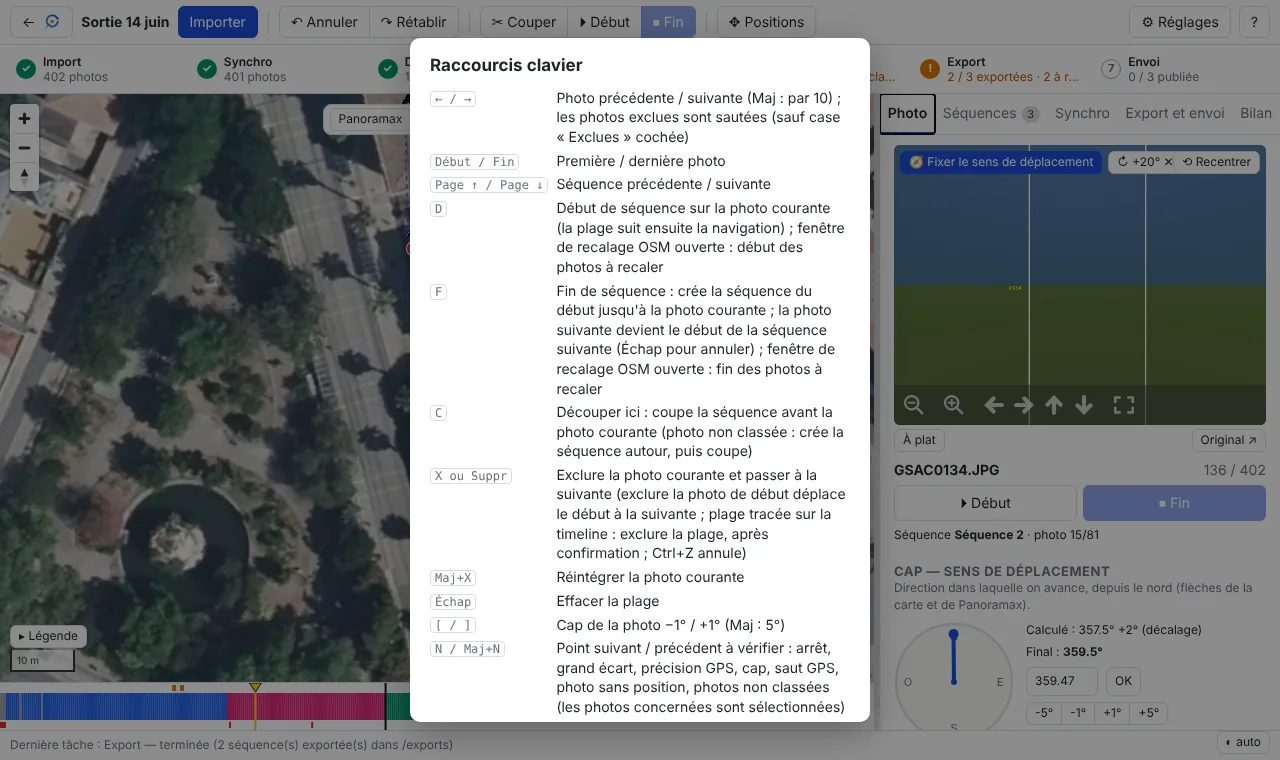
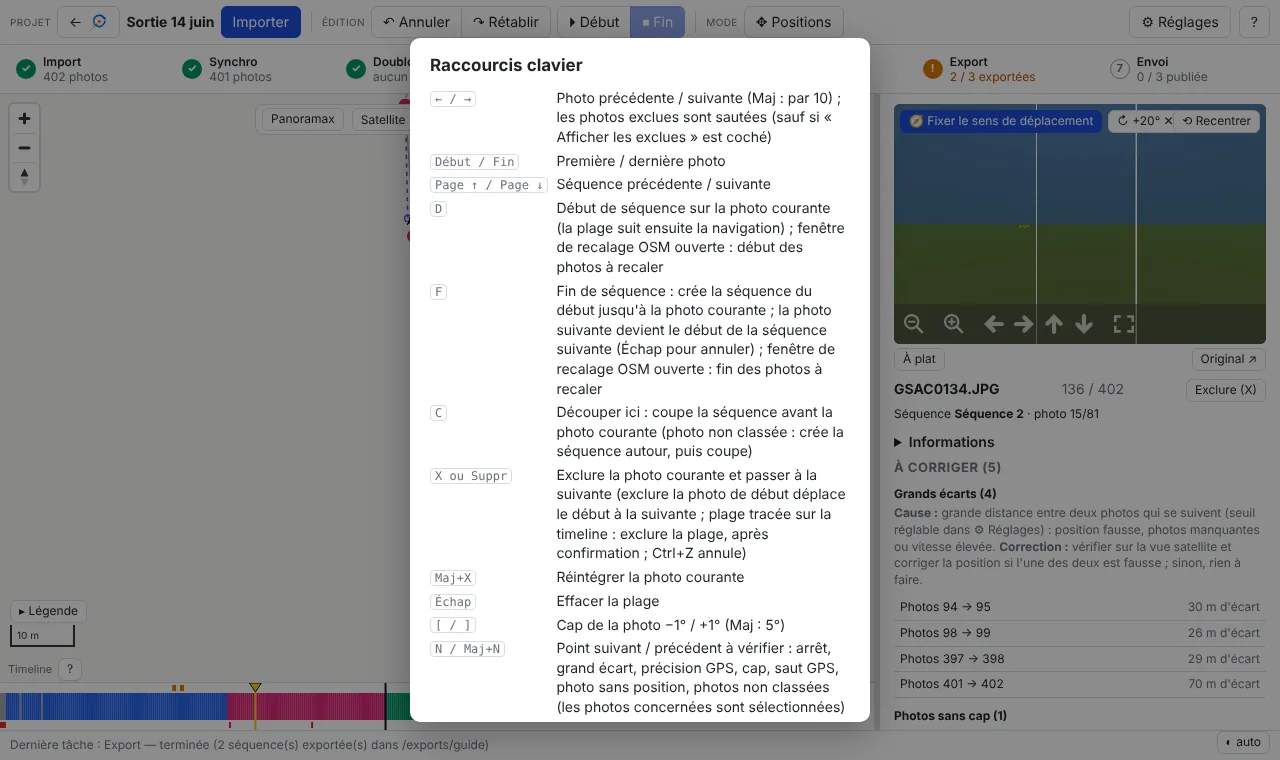
Captures du guide régénérées (FR/EN) (#66)
* Captures du guide régénérées (FR et EN) : onglets-étapes, Positions et sens fusionné ; captures.js adapté

Closes #51

Claude-Session: https://claude.ai/code/session_01UxooiTB1SJsNtET5WquF4Y

* Libellés : bouton « L'avant est ici » et légende « sens de déplacement » ; captures concernées régénérées

Claude-Session: https://claude.ai/code/session_01UxooiTB1SJsNtET5WquF4Y

---------

diff --git a/tools/captures.js b/tools/captures.js
@@ -5,8 +5,8 @@ const OUT = process.argv[2], BASE = process.argv[3] || 'http://127.0.0.1:8767/';
 const LANG = process.argv[4] === 'en' ? 'en' : 'fr';
 // Labels the script clicks on, per language (exact texts of frontend/src/i18n)
 const L = LANG === 'en'
-  ? { ride: 'Ride 14 June', seq: 'Sequences', summary: 'Summary', export: 'Export and send', sync: 'Sync', photo: 'Photo', basemap: 'Background map', heading: /heading/i, info: /information/i }
-  : { ride: 'Sortie 14 juin', seq: 'Séquences', summary: 'Bilan', export: 'Export', sync: 'Synchro', photo: 'Photo', basemap: 'Fond de carte', heading: /cap/i, info: /informations/i };
+  ? { ride: 'Ride 14 June', seq: 'Sequences', summary: 'Import', export: 'Export', sync: 'Sync', photo: 'Positions and direction', basemap: 'Background map' }
+  : { ride: 'Sortie 14 juin', seq: 'Séquences', summary: 'Import', export: 'Export', sync: 'Synchro', photo: 'Positions et sens', basemap: 'Fond de carte' };
 (async () => {
   const b = await chromium.launch(); const errors = [];
   const ctx = await b.newContext({ viewport: { width: 1280, height: 760 }, colorScheme: 'light', locale: LANG === 'en' ? 'en-GB' : 'fr-FR' });
@@ -17,11 +17,11 @@ const L = LANG === 'en'
   const shot = async (name, opts = {}) => { await p.screenshot({ path: `${OUT}/${name}.png`, ...opts }); console.log('ok', name); };
   const go = async (n) => { await p.keyboard.press('Home'); for (let i = 0; i < Math.floor(n / 10); i++) await p.keyboard.press('Shift+ArrowRight'); for (let i = 0; i < n % 10; i++) await p.keyboard.press('ArrowRight'); await wait(); };
 
-  await p.addInitScript((lang) => { try { localStorage.setItem('pss-basemap', 'osm'); localStorage.setItem('pss-follow', '1'); localStorage.setItem('pss-lang', lang) } catch {} }, LANG);
+  await p.addInitScript((lang) => { try { localStorage.setItem('pss-basemap', 'osm'); localStorage.setItem('pss-follow', '1'); localStorage.setItem('pss-lang', lang); localStorage.setItem('pss-tips-seen', '1') } catch {} }, LANG);
   await p.goto(BASE); await p.waitForSelector('.project-name'); await wait();
   await shot('01-projets');
 
-  await p.click(`.project-name:has-text("${L.ride}")`); await p.waitForSelector('.tabs');
+  await p.click(`.project-name:has-text("${L.ride}")`); await p.waitForSelector('.steps');
   await go(40); await p.evaluate(() => window.__pssMap.zoomTo(16.3, { duration: 0 })); await tiles();
   await shot('02-ecran');
 
@@ -30,22 +30,22 @@ const L = LANG === 'en'
   await shot('03-debut-fin');
   await p.keyboard.press('Escape');
 
-  await p.click(`.tab:has-text("${L.seq}")`); await wait();
+  await p.click(`.step:has(.lab:text-is("${L.seq}"))`); await wait();
   await shot('04-sequences');
 
-  await p.click(`.tab:has-text("${L.summary}")`); await wait();
+  await p.click(`.step:has(.lab:text-is("${L.summary}"))`); await wait();
   await shot('09-bilan');
 
-  await p.click(`.tab:has-text("${L.export}")`); await wait();
+  await p.click(`.step:has(.lab:text-is("${L.export}"))`); await wait();
   await shot('08-export');
 
   // satellite IGN for sync and positions
   await p.selectOption(`select[aria-label="${L.basemap}"]`, 'ign-ortho'); await wait(1000);
-  await p.click(`.tab:has-text("${L.sync}")`); await wait(1500);
+  await p.click(`.step:has(.lab:text-is("${L.sync}"))`); await wait(1500);
   await go(150); await p.evaluate(() => window.__pssMap.zoomTo(18, { duration: 0 })); await tiles();
   await shot('05-synchro');
 
-  await p.click(`.tab:has-text("${L.photo}")`); await wait();
+  await p.click(`.step:has(.lab:text-is("${L.photo}"))`); await wait();
   await go(100); await p.keyboard.press('m'); await p.evaluate(() => window.__pssMap.zoomTo(18.5, { duration: 0 })); await tiles();
   const mk = await p.locator('.maplibregl-marker').last().boundingBox();
   if (mk) { const x = mk.x + mk.width / 2, y = mk.y + mk.height - 4; await p.mouse.move(x, y); await p.mouse.down(); await p.mouse.move(x + 40, y - 25, { steps: 8 }); await p.mouse.up(); await wait(1200); }
@@ -55,12 +55,7 @@ const L = LANG === 'en'
   // heading / orientation part of the photo panel
   await go(130); await wait(1500);
   await p.setViewportSize({ width: 1280, height: 1500 }); await wait(1200);
-  const box = await p.evaluate(([capRe, infoRe]) => {
-    const hs = [...document.querySelectorAll('aside.side h3')];
-    const cap = hs.find(h => new RegExp(capRe, 'i').test(h.textContent)), info = hs.find(h => new RegExp(infoRe, 'i').test(h.textContent));
-    const a = cap.getBoundingClientRect(), b = info.getBoundingClientRect(), side = document.querySelector('aside.side').getBoundingClientRect();
-    return { x: side.x, y: a.y - 12, width: side.width, height: b.y - a.y };
-  }, [L.heading.source, L.info.source]);
+  const box = await p.evaluate(() => { const r = document.querySelector('details[data-section="travel"]').getBoundingClientRect(); return { x: r.x, y: r.y - 6, width: r.width, height: r.height + 12 } });
   await p.screenshot({ path: `${OUT}/07-cap.png`, clip: box }); console.log('ok 07-cap');
   await p.setViewportSize({ width: 1280, height: 760 }); await wait();
 

diff --git a/frontend/src/i18n/en.ts b/frontend/src/i18n/en.ts
@@ -386,8 +386,8 @@ export const en: Record<Key, string> = {
   'photo.end': '⏹ End',
   'photo.endBig': ' — {n} photos',
   'photo.unreadable': 'Unreadable image',
-  'photo.fixRange': 'Direction of travel (range {a}→{b})',
-  'photo.fix': 'Set the direction of travel',
+  'photo.fixRange': 'Front is here (range {a}→{b})',
+  'photo.fix': 'Front is here',
   'photo.excluded': 'Excluded photo (outside sequences, never exported).',
   'photo.reinclude': 'Re-include (Shift+X)',
   'photo.exclude': 'Exclude (X)',
@@ -412,7 +412,7 @@ export const en: Record<Key, string> = {
   'photo.orient.right': ' (to the right)',
   'photo.orient.left': ' (to the left)',
   'photo.orient.zero': 'Image centre <b>in the direction of travel</b> (0°)',
-  'photo.orient.keyHeading': 'heading',
+  'photo.orient.keyHeading': 'direction of travel',
   'photo.orient.keyCentre': 'image centre',
   'photo.orient.fixHelp': 'To correct it: turn the view to the front then "🧭 Front is here" in the viewer.',
   'photo.orient.reset': 'Reset to 0°',

diff --git a/frontend/src/i18n/fr.ts b/frontend/src/i18n/fr.ts
@@ -385,8 +385,8 @@ export const fr = {
   'photo.end': '⏹ Fin',
   'photo.endBig': ' — {n} photos',
   'photo.unreadable': 'Image illisible',
-  'photo.fixRange': 'Sens de déplacement (plage {a}→{b})',
-  'photo.fix': 'Fixer le sens de déplacement',
+  'photo.fixRange': "L'avant est ici (plage {a}→{b})",
+  'photo.fix': "L'avant est ici",
   'photo.excluded': 'Photo exclue (hors séquences, jamais exportée).',
   'photo.reinclude': 'Réintégrer (Maj+X)',
   'photo.exclude': 'Exclure (X)',
@@ -411,7 +411,7 @@ export const fr = {
   'photo.orient.right': ' (vers la droite)',
   'photo.orient.left': ' (vers la gauche)',
   'photo.orient.zero': "Centre de l'image <b>dans le sens de déplacement</b> (0°)",
-  'photo.orient.keyHeading': 'cap',
+  'photo.orient.keyHeading': 'sens de déplacement',
   'photo.orient.keyCentre': "centre de l'image",
   'photo.orient.fixHelp': "Pour la corriger : tournez la vue vers l'avant puis « 🧭 L'avant est ici » dans la visionneuse.",
   'photo.orient.reset': 'Remettre à 0°',

diff --git a/doc/GUIDE_CODE.md b/doc/GUIDE_CODE.md
@@ -217,7 +217,7 @@ exclues) et `stepIdx` fait sauter les exclues à ← →, Début/Fin et après `
 creux et permet d'y aller). La visionneuse signale sa
 direction (`onView`, événement `position-updated` de Photo Sphere Viewer) : la flèche de la photo sélectionnée sur
 la carte prend l'orientation cap + direction de vue (`viewAzimuth`). Après un glisser, Photo Sphere Viewer continue
-par inertie : « Fixer le sens de déplacement » appelle `stopAnimation()` avant de lire la direction. En mode
+par inertie : « L'avant est ici » appelle `stopAnimation()` avant de lire la direction. En mode
 Positions ou Synchro, le zoom au double-clic de la carte est désactivé (sélectionner une photo puis saisir son
 marqueur faisait un double-clic) ; la carte ne se recentre que lorsque la photo sélectionnée change.
 
@@ -237,7 +237,7 @@ ces balises ne sont pas touchées (ou reprennent leur valeur d'origine sur une s
 contient `_captured`, la liste des balises sauvegardées, pour ne pas effacer celles que les anciennes versions ne
 sauvegardaient pas).
 
-Visionneuse : `sphereCorrection` = orientation de la photo, pose XMP forcée à 0. « Fixer le sens de déplacement » :
+Visionneuse : `sphereCorrection` = orientation de la photo, pose XMP forcée à 0. « L'avant est ici » :
 la vue est dans le repère corrigé ; si l'on regarde la route à l'angle `y`, la nouvelle orientation vaut
 `orientation + y`. `GPSImgDirection` reste le sens de déplacement (le viewer Panoramax ouvre la photo en comparant
 ce cap à la direction vers la photo précédente). `POST …/headings/yaw` : `yaw` (valeur fixée) ou `add` (ajoutée à

diff --git a/doc/GUIDE_UTILISATEUR.md b/doc/GUIDE_UTILISATEUR.md
@@ -430,7 +430,7 @@ photos ; 0 le retire. Ce réglage ne dépend pas des séquences, qui ne sont qu'
 *Fixer* (même cap manuel pour toutes) et *Caps calculés*. Les caps manuels ne sont jamais écrasés ; un cap manuel voisin d'une position corrigée est marqué
 « à revoir ».
 
-![Cap et position d'une photo](images/07-cap.webp)
+![Sens de déplacement et orientation d'une photo](images/07-cap.webp)
 *Onglet *Positions et sens* : cap calculé (avec son décalage éventuel), orientation de la photo par rapport au sens de déplacement, cap final ; position d'origine et position corrigée (ici par la synchro, 8 m).*
 
 ### Caméra sur casque

diff --git a/doc/USER_GUIDE.md b/doc/USER_GUIDE.md
@@ -407,7 +407,7 @@ removes it. This setting does not depend on sequences, which are only a split. O
 heading for all) and *Computed headings*. Manual headings are never overwritten; a manual heading next to a corrected position is marked
 « to review ».
 
-![Heading and position of a photo](images/en/07-cap.webp)
+![Direction of travel and orientation of a photo](images/en/07-cap.webp)
 *Positions and direction* tab: computed heading (with its offset if any), orientation of the photo relative to the direction of travel, final heading; original position and corrected position (here by the sync, 8 m).*
 
 ### Camera on a helmet
